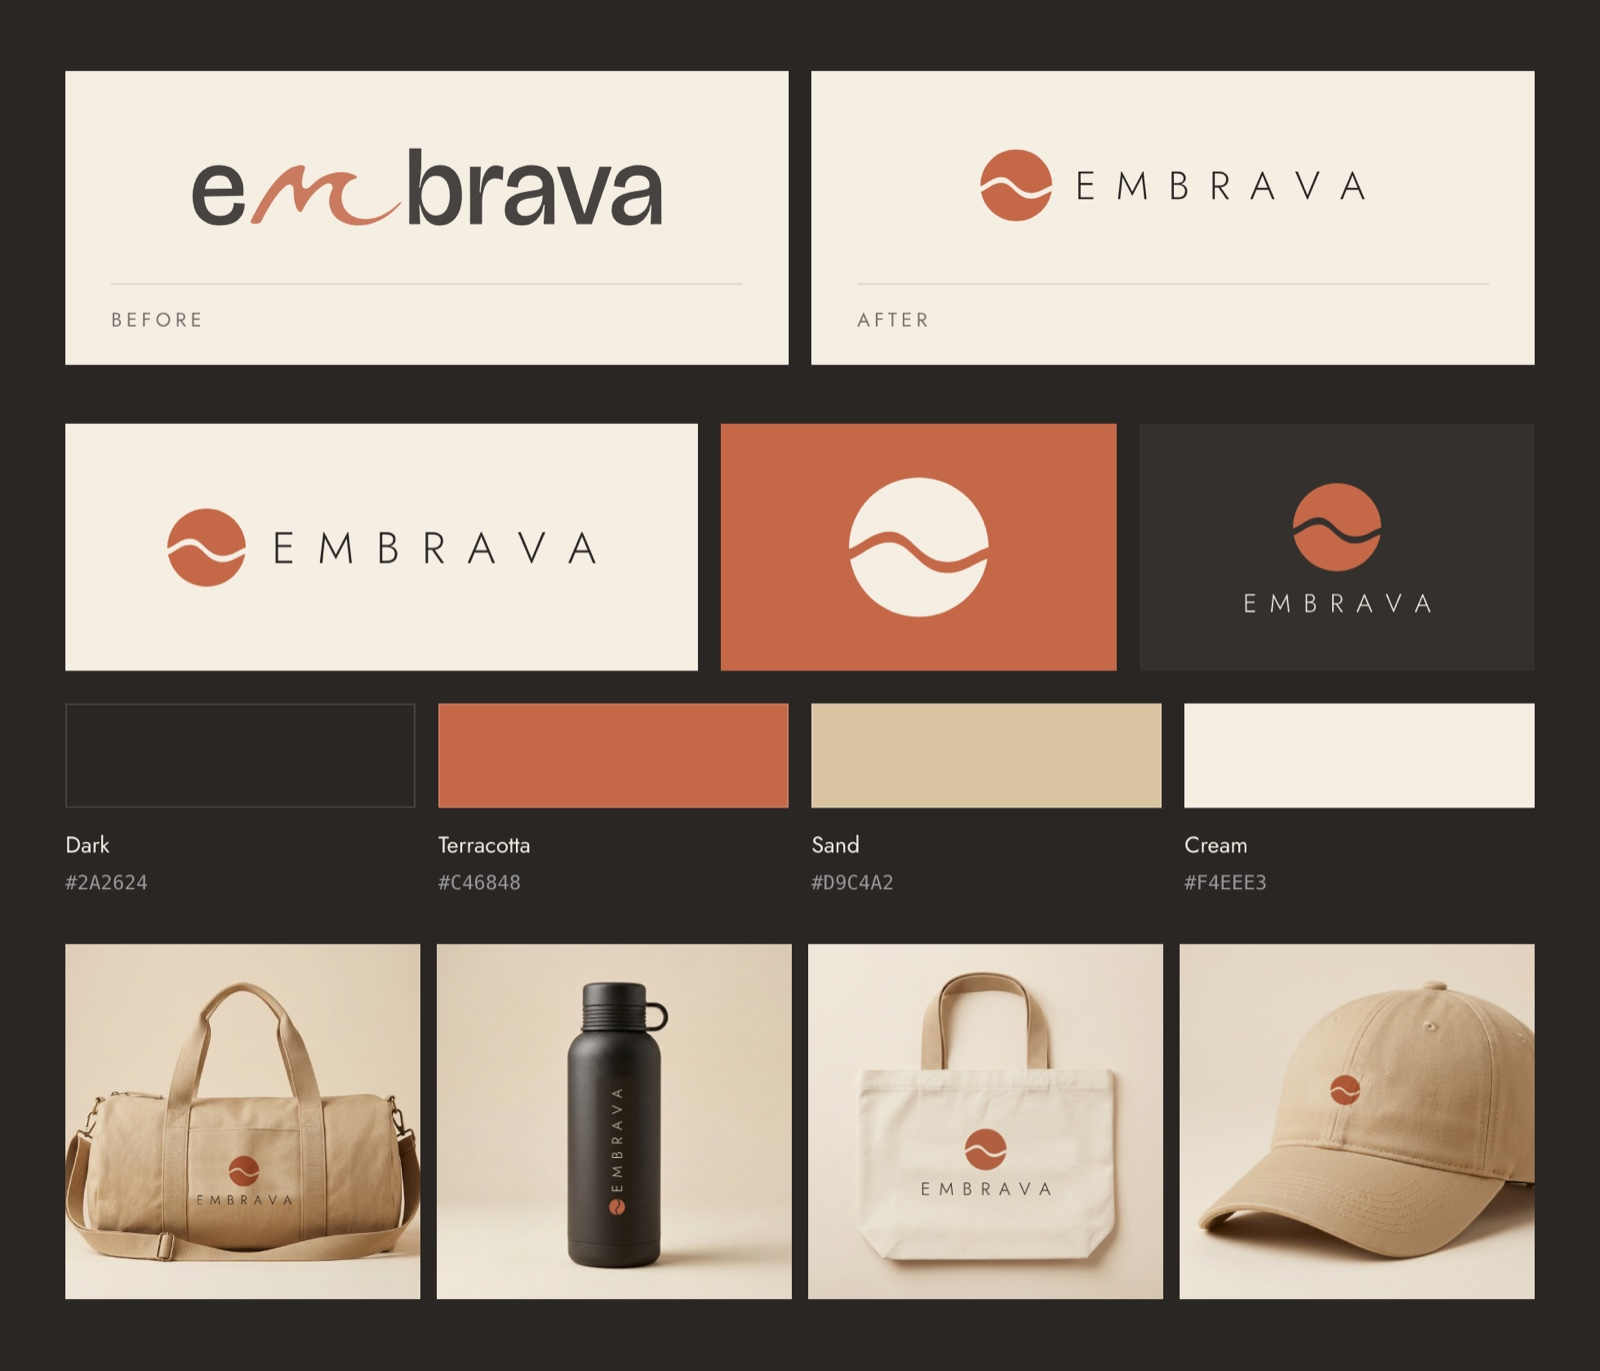
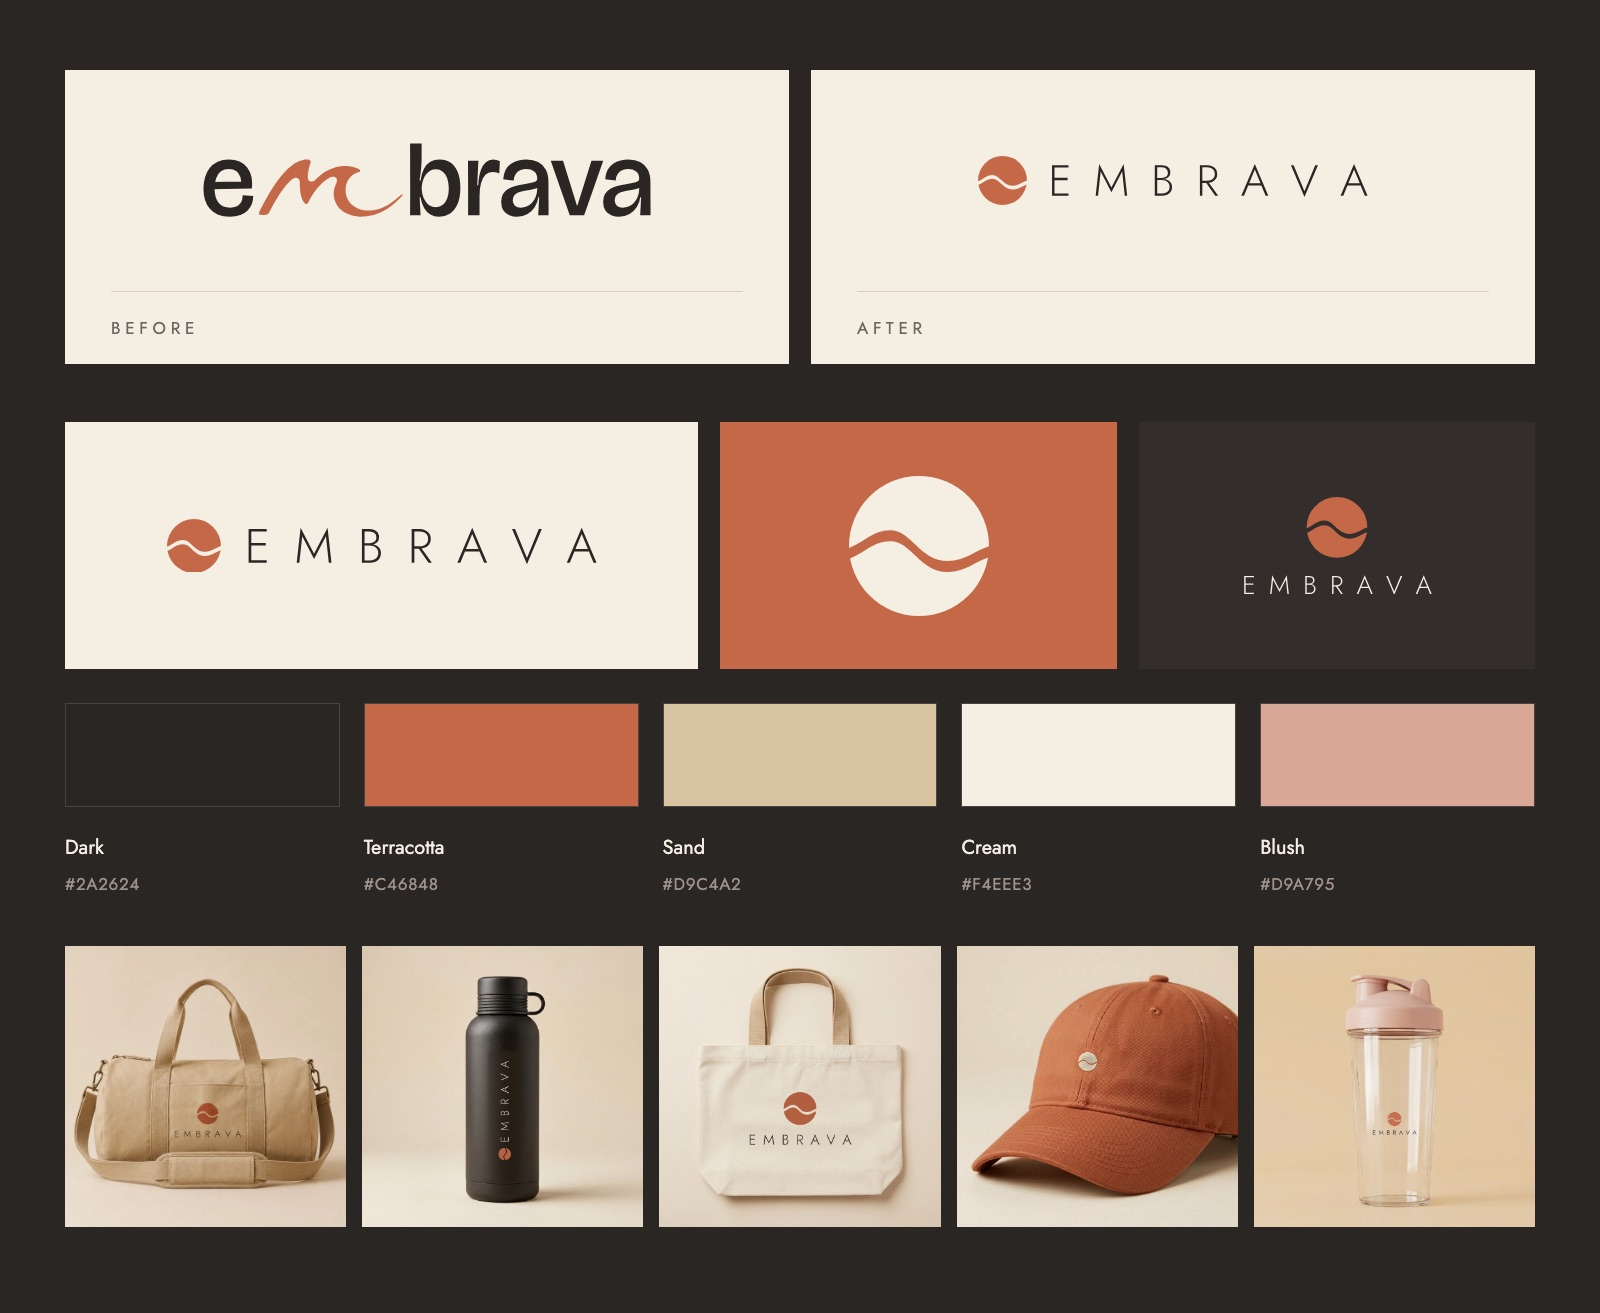
Actualiza las capturas de Embrava, la imagen de identidad con cinco colores y los textos de kits y Our story

diff --git a/work/embrava.html b/work/embrava.html
@@ -68,7 +68,7 @@
           <div class="browser-url">andrea-mmo.github.io/embrava</div>
         </div>
         <div class="browser-view" tabindex="0" aria-label="Scrollable preview of the Embrava store on desktop">
-          <img src="../images/embrava-long.jpg" alt="Desktop view of the Embrava homepage: hero, kits, product grid, build your kit, gift card and footer" width="1440" height="5062">
+          <img src="../images/embrava-long.jpg" alt="Desktop view of the Embrava homepage: hero, kits, product grid, build your kit, our story, gift card and footer" width="1440" height="7386">
         </div>
         <figcaption>Desktop. Scroll inside the frame to see the full homepage.</figcaption>
       </figure>
@@ -105,14 +105,14 @@
       <div class="quiz-intro">
         <p class="eyebrow">The brand</p>
         <h3 class="decisions-title">Brave, like the sea</h3>
-        <p>The name blends two Spanish ideas: <em>brava</em>, bold and full of character, and <em>mar embravecido</em>, the sea when it turns wild. Embrava is training gear with that same energy: confident, warm and made to move. The symbol draws it as a wave crossing the sun, and the tagline says it in three words: <em>Strength. Character. Movement.</em></p>
+        <p>The name blends two Spanish ideas: <em>brava</em>, bold and full of character, and <em>mar embravecido</em>, the sea when it turns wild. Embrava is training gear with that same energy: confident, warm and made to move. The symbol draws it as a wave crossing the sun, and the tagline says it in three words: <em>Strength. Character. Movement.</em> The store tells the same story in a section of its own.</p>
       </div>
       <div class="quiz-intro">
         <h3 class="decisions-title">From a wave-shaped m to sun and sea</h3>
         <p>The first logo drew the <em>m</em> as a wave inside the word. It had personality, but at small sizes, stitched or printed, it was hard to read and could look like a typo. I kept the name and the palette and split the logo into two pieces that work together or apart.</p>
       </div>
       <figure class="brand-board">
-        <img src="../images/embrava-brand.jpg" alt="Embrava brand board: the old and new logo side by side, the horizontal lockup, the symbol, the stacked lockup, the four-colour palette and the logo on a gym bag, bottle, tote and cap" width="1600" height="1371" loading="lazy">
+        <img src="../images/embrava-brand.jpg" alt="Embrava brand board: the old and new logo side by side, the horizontal lockup, the symbol, the stacked lockup, the five-colour palette and the logo on a gym bag, bottle, tote, cap and shaker" width="1600" height="1313" loading="lazy">
         <figcaption>Before and after, the three logo versions, the palette and the logo on product.</figcaption>
       </figure>
       <ul class="quiz-points">
@@ -165,7 +165,7 @@
       </li>
       <li>
         <h4>Kits as the best deal</h4>
-        <p>“Where do you train?” leads straight to three kits, for the gym, for mat work at home and for a first week of training. Every kit saves 20%, against 15% for building your own, so the bundle stays the obvious choice.</p>
+        <p>“Where do you train?” leads straight to three kits, for the gym, for mat work at home and for a first week of training. Every kit saves 20%, against 15% for building your own, so the bundle stays the obvious choice. Each kit card lists its pieces and their prices, so the saving is plain to see.</p>
       </li>
       <li>
         <h4>Build your own kit</h4>
@@ -194,7 +194,7 @@
 
       <ul class="phones" tabindex="0" aria-label="Screens of the Embrava store on mobile">
         <li>
-          <div class="phone-view"><img src="../images/embrava-m-kits.jpg" alt="Kits section on mobile, starting with the Gym kit and its 16% saving" width="780" height="1688" loading="lazy"></div>
+          <div class="phone-view"><img src="../images/embrava-m-kits.jpg" alt="Kits section on mobile, starting with the Gym kit: its 20% saving, three pieces and their prices" width="780" height="1688" loading="lazy"></div>
           <span>1. Kits lead the way</span>
         </li>
         <li>
@@ -202,7 +202,7 @@
           <span>2. A thumbnail per colour</span>
         </li>
         <li>
-          <div class="phone-view"><img src="../images/embrava-m-build.jpg" alt="Build your kit picker on mobile with three pieces selected" width="780" height="1688" loading="lazy"></div>
+          <div class="phone-view"><img src="../images/embrava-m-build.jpg" alt="Build your kit on mobile with three pieces in the kit tray and 15% off applied" width="780" height="1688" loading="lazy"></div>
           <span>3. Build your own kit</span>
         </li>
       </ul>
